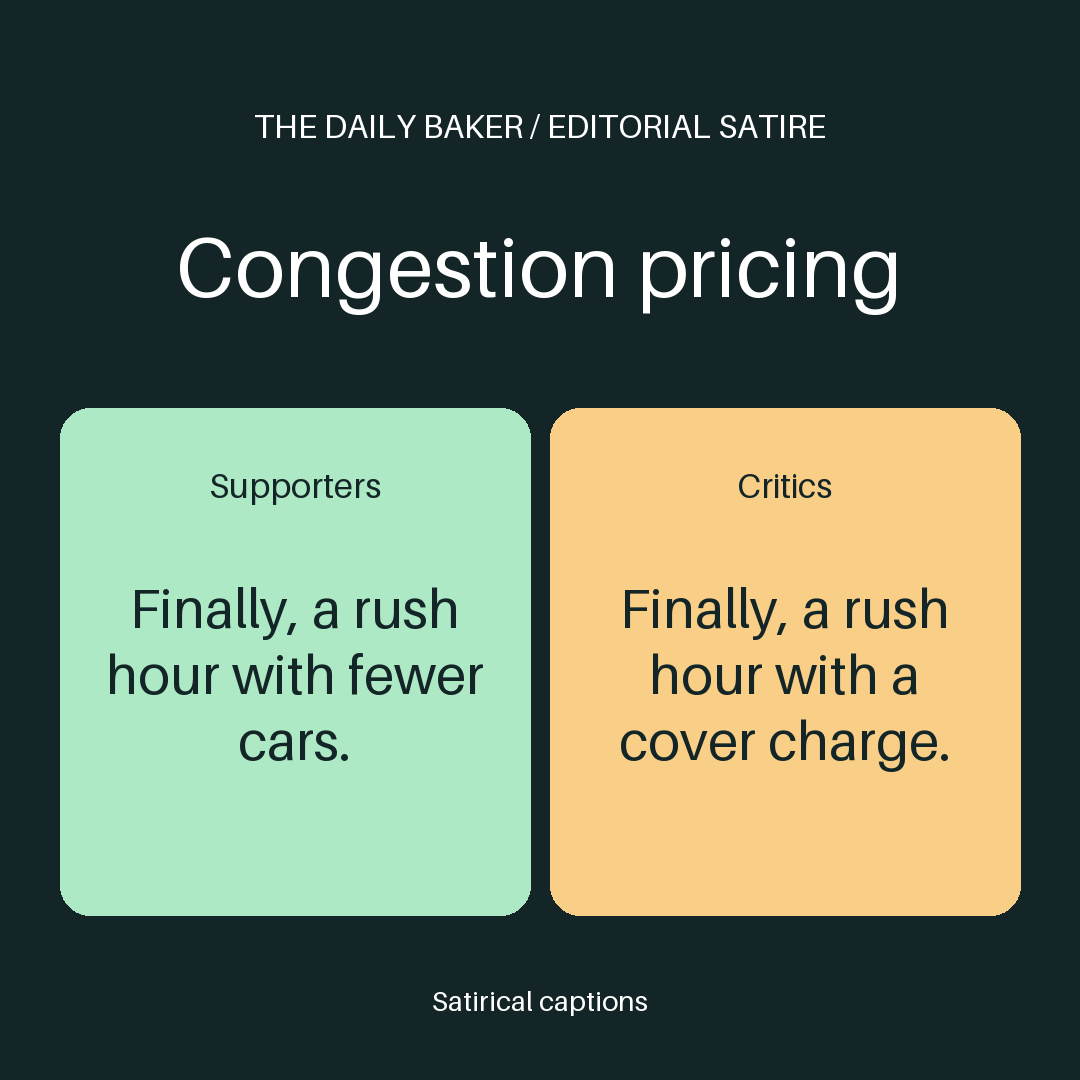
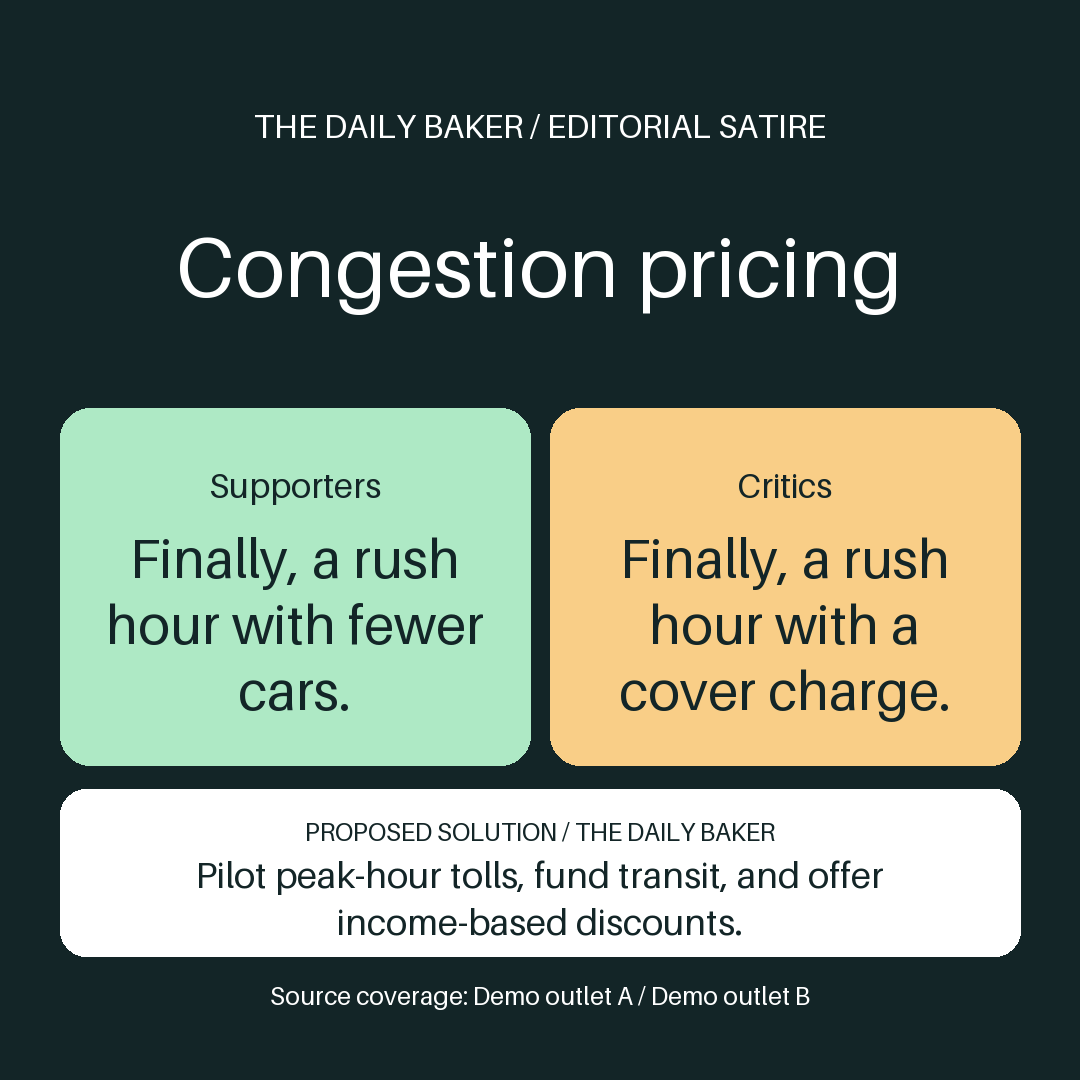
Add sourced COP31 story and proposed solutions

Changed region(s): [[0.0306, 0.4889, 0.9472, 0.8861], [0.2444, 0.9167, 0.7639, 0.9472]]

diff --git a/docs/index.html b/docs/index.html
@@ -1,4 +1,10 @@
-<!doctype html><html lang="en"><meta charset="utf-8"><meta name="viewport" content="width=device-width"><title>The Daily Baker</title><style>body{font:17px system-ui;background:#f4efe7;color:#20282a;max-width:1050px;margin:50px auto;padding:0 20px}article{display:flex;flex-wrap:wrap;gap:26px;background:white;padding:22px;margin:22px 0;border-radius:16px}article div{flex:1;min-width:240px}img{width:min(100%,360px);align-self:start;border-radius:9px}p{line-height:1.45}</style><h1>The Daily Baker</h1><p>Synthetic demo. Try approving or rejecting each draft. Decisions stay in this browser tab and reset on refresh.</p><article><img src="7d58a8b4afb002ae.png" alt="Two panels on Congestion pricing. Supporters: I&#x27;d pay for a shorter commute. Critics: I already paid for the commute."><div><h2>Congestion pricing</h2><code>7d58a8b4afb002ae</code> · <span class="decision" aria-live="polite">Pending</span> <button type="button">Approve</button> <button type="button">Reject</button><ul><li><b>Supporters</b> · Demo outlet A · Congestion pricing cuts congestion<p>Synthetic coverage for a local demo.</p></li><li><b>Critics</b> · Demo outlet B · Congestion pricing is unfair to drivers<p>Synthetic coverage for a local demo.</p></li></ul><p>Editorial satire | Congestion pricing — Supporters and Critics.</p></div></article><article><img src="1e39490d3987ee5d.png" alt="Two panels on Congestion pricing. Supporters: The traffic jam needed an exit. Critics: My budget needed one too."><div><h2>Congestion pricing</h2><code>1e39490d3987ee5d</code> · <span class="decision" aria-live="polite">Pending</span> <button type="button">Approve</button> <button type="button">Reject</button><ul><li><b>Supporters</b> · Demo outlet A · Congestion pricing cuts congestion<p>Synthetic coverage for a local demo.</p></li><li><b>Critics</b> · Demo outlet B · Congestion pricing is unfair to drivers<p>Synthetic coverage for a local demo.</p></li></ul><p>Editorial satire | Congestion pricing — Supporters and Critics.</p></div></article><article><img src="1a60bd510941abfa.png" alt="Two panels on Congestion pricing. Supporters: Finally, a rush hour with fewer cars. Critics: Finally, a rush hour with a cover charge."><div><h2>Congestion pricing</h2><code>1a60bd510941abfa</code> · <span class="decision" aria-live="polite">Pending</span> <button type="button">Approve</button> <button type="button">Reject</button><ul><li><b>Supporters</b> · Demo outlet A · Congestion pricing cuts congestion<p>Synthetic coverage for a local demo.</p></li><li><b>Critics</b> · Demo outlet B · Congestion pricing is unfair to drivers<p>Synthetic coverage for a local demo.</p></li></ul><p>Editorial satire | Congestion pricing — Supporters and Critics.</p></div></article><script>
+<!doctype html><html lang="en"><meta charset="utf-8"><meta name="viewport" content="width=device-width"><title>The Daily Baker</title><style>body{font:17px system-ui;background:#f4efe7;color:#20282a;max-width:1050px;margin:50px auto;padding:0 20px}article{display:flex;flex-wrap:wrap;gap:26px;background:white;padding:22px;margin:22px 0;border-radius:16px}article div{flex:1;min-width:240px}img{width:min(100%,360px);align-self:start;border-radius:9px}p{line-height:1.45}</style><h1>The Daily Baker</h1><h2>Live story test · November 9, 2026</h2>
+<section style="display:flex;flex-wrap:wrap;gap:26px;background:white;padding:22px;border-radius:16px">
+<img src="cop31-2026-11-09.png" alt="COP31 satire. Supporters want an exit date. Critics worry about power bills. Proposed solution: set phase-down milestones, fund clean power, and protect households from price spikes.">
+<div><h3>COP31: The fossil fuel exit</h3><p>Editorial satire based on reporting from today. The proposed solution is from The Daily Baker.</p>
+<ul><li><a href="https://www.channelnewsasia.com/sustainability/cop31-climate-talks-un-crisis-antalya-6535811">CNA · COP31 opening coverage</a></li>
+<li><a href="https://www.euronews.com/2026/11/09/europe-talks-green-at-cop31-but-scrambles-for-more-fossil-fuels">Euronews · Europe’s energy trade-offs</a></li></ul></div></section>
+<h2>Synthetic review demo</h2><p>Synthetic demo. Try approving or rejecting each draft. Decisions stay in this browser tab and reset on refresh.</p><article><img src="7d58a8b4afb002ae.png" alt="Two panels on Congestion pricing. Supporters: I&#x27;d pay for a shorter commute. Critics: I already paid for the commute. Proposed solution from The Daily Baker: Pilot peak-hour tolls, fund transit, and offer income-based discounts."><div><h2>Congestion pricing</h2><code>7d58a8b4afb002ae</code> · <span class="decision" aria-live="polite">Pending</span> <button type="button">Approve</button> <button type="button">Reject</button><ul><li><b>Supporters</b> · Demo outlet A · Congestion pricing cuts congestion<p>Synthetic coverage for a local demo.</p></li><li><b>Critics</b> · Demo outlet B · Congestion pricing is unfair to drivers<p>Synthetic coverage for a local demo.</p></li></ul><p>Editorial satire | Congestion pricing — Supporters and Critics.</p><p><b>Proposed solution</b> · Pilot peak-hour tolls, fund transit, and offer income-based discounts.</p></div></article><article><img src="1e39490d3987ee5d.png" alt="Two panels on Congestion pricing. Supporters: The traffic jam needed an exit. Critics: My budget needed one too. Proposed solution from The Daily Baker: Pilot peak-hour tolls, fund transit, and offer income-based discounts."><div><h2>Congestion pricing</h2><code>1e39490d3987ee5d</code> · <span class="decision" aria-live="polite">Pending</span> <button type="button">Approve</button> <button type="button">Reject</button><ul><li><b>Supporters</b> · Demo outlet A · Congestion pricing cuts congestion<p>Synthetic coverage for a local demo.</p></li><li><b>Critics</b> · Demo outlet B · Congestion pricing is unfair to drivers<p>Synthetic coverage for a local demo.</p></li></ul><p>Editorial satire | Congestion pricing — Supporters and Critics.</p><p><b>Proposed solution</b> · Pilot peak-hour tolls, fund transit, and offer income-based discounts.</p></div></article><article><img src="1a60bd510941abfa.png" alt="Two panels on Congestion pricing. Supporters: Finally, a rush hour with fewer cars. Critics: Finally, a rush hour with a cover charge. Proposed solution from The Daily Baker: Pilot peak-hour tolls, fund transit, and offer income-based discounts."><div><h2>Congestion pricing</h2><code>1a60bd510941abfa</code> · <span class="decision" aria-live="polite">Pending</span> <button type="button">Approve</button> <button type="button">Reject</button><ul><li><b>Supporters</b> · Demo outlet A · Congestion pricing cuts congestion<p>Synthetic coverage for a local demo.</p></li><li><b>Critics</b> · Demo outlet B · Congestion pricing is unfair to drivers<p>Synthetic coverage for a local demo.</p></li></ul><p>Editorial satire | Congestion pricing — Supporters and Critics.</p><p><b>Proposed solution</b> · Pilot peak-hour tolls, fund transit, and offer income-based discounts.</p></div></article><script>
 for (const card of document.querySelectorAll("article")) {
   const status = card.querySelector(".decision");
   const buttons = card.querySelectorAll("button");

diff --git a/outputs/daily_baker.py b/outputs/daily_baker.py
@@ -1,5 +1,6 @@
 """The Daily Baker: collect, draft, review, and export editorial satire."""
 import argparse
+from concurrent.futures import ThreadPoolExecutor
 from datetime import date, datetime, timedelta, timezone
 from email.utils import parsedate_to_datetime
 from hashlib import sha256
@@ -9,7 +10,7 @@ import json
 from pathlib import Path
 import re
 import sqlite3
-from urllib.parse import urlsplit
+from urllib.parse import urlencode, urlsplit
 from urllib.request import Request, urlopen
 from xml.etree import ElementTree
 
@@ -34,7 +35,22 @@ class PlainText(HTMLParser):
 
 def collect(feeds):
     cutoff = datetime.now(timezone.utc) - timedelta(hours=48)
-    for feed in feeds:
+    with ThreadPoolExecutor(max_workers=8) as workers:
+        for articles in workers.map(lambda source: list(collect_source(source, cutoff)), feeds):
+            yield from articles
+
+
+def collect_source(source, cutoff):
+    # Keep existing string-based feed configurations usable.
+    if isinstance(source, str):
+        source = {"url": source, "publisher": urlsplit(source).hostname}
+    site = source.get("site")
+    direct = source.get("url")
+    fallback = "https://news.google.com/rss/search?" + urlencode({
+        "q": f"site:{site} when:2d", "hl": "en", "gl": "US", "ceid": "US:en",
+    })
+    for feed in filter(None, (direct, fallback if site else None)):
+        accepted = 0
         try:
             with urlopen(Request(feed, headers={"User-Agent": "TheDailyBaker/1.0"}), timeout=12) as response:
                 raw = response.read(2_000_001)
@@ -54,14 +70,34 @@ def collect(feeds):
                     continue
                 if not cutoff <= published <= datetime.now(timezone.utc) or not host or urlsplit(link).scheme != "https":
                     continue
+                title = str(PlainText(item.findtext("title") or ""))
+                summary = str(PlainText(item.findtext("description") or ""))
+                if feed != direct:
+                    attribution = item.find("source")
+                    if attribution is None:
+                        continue
+                    origin = urlsplit(attribution.get("url", "")).hostname or ""
+                    domain = site.split("/")[0]
+                    if origin != domain and not origin.endswith("." + domain):
+                        continue
+                    label = (attribution.text or "").strip()
+                    if label and title.endswith(f" - {label}"):
+                        title = title[:-(len(label) + 3)]
+                    summary = ""
+                if not title:
+                    continue
+                accepted += 1
                 yield {
-                    "publisher": urlsplit(feed).hostname,
+                    "publisher": source["publisher"],
+                    "channel": source.get("channel", source["publisher"]),
                     "url": link,
-                    "title": str(PlainText(item.findtext("title") or "")),
-                    "summary": str(PlainText(item.findtext("description") or "")),
+                    "title": title,
+                    "summary": summary,
                 }
         except (OSError, ValueError, ElementTree.ParseError) as error:
             print(f"Feed unavailable ({feed}): {error}")
+        if accepted:
+            return
 
 
 def select(articles, topics):
@@ -85,7 +121,7 @@ def select(articles, topics):
     return max(candidates, key=lambda candidate: candidate[0], default=None)
 
 
-def render(topic, sides, jokes, index, path):
+def render(topic, sides, jokes, index, path, sources, solution):
     palettes = [
         ("#132527", "#aee9c5", "#f9ce87"),
         ("#242238", "#c8bbff", "#ffb9ce"),
@@ -110,10 +146,15 @@ def render(topic, sides, jokes, index, path):
     centered("THE DAILY BAKER   /   EDITORIAL SATIRE", 125, 33, 970)
     centered(topic, 266, 84, 960)
     for x, color, side, joke in zip((60, 550), (left, right), sides, jokes):
-        draw.rounded_rectangle((x, 408, x + 470, 915), radius=30, fill=color)
+        draw.rounded_rectangle((x, 408, x + 470, 765), radius=30, fill=color)
         centered(side, 485, 34, 410, x + 235, background)
-        centered(joke, 674, 54, 398, x + 235, background)
-    centered("Satirical captions", 1000, 28, 970)
+        centered(joke, 624, 54, 398, x + 235, background)
+    if solution:
+        draw.rounded_rectangle((60, 789, 1020, 956), radius=26, fill="#ffffff")
+        centered("PROPOSED SOLUTION  /  THE DAILY BAKER", 831, 25, 900, color=background)
+        centered(solution, 899, 36, 880, color=background)
+    credits = "  /  ".join(source.get("channel", source["publisher"]) for source in sources)
+    centered("Source coverage: " + credits, 995, 25, 960)
     image.save(path)
 
 
@@ -135,11 +176,13 @@ def dashboard(db, state):
             title = escape(source["title"])
             if source["url"]:
                 title = f'<a href="{escape(source["url"], quote=True)}">{title}</a>'
-            sources.append(f'<li><b>{escape(label)}</b> · {escape(source["publisher"])} · {title}<p>{escape(source["summary"])}</p></li>')
+            sources.append(f'<li><b>{escape(label)}</b> · {escape(source.get("channel", source["publisher"]))} · {title}<p>{escape(source["summary"])}</p></li>')
+        solution = data.get("solution")
+        solution_html = f'<p><b>Proposed solution</b> · {escape(solution)}</p>' if solution else ""
         mode = " · demo" if data["demo"] else ""
         sections.append(f'<article><img src="{identifier}.png" alt="{escape(data["alt"], quote=True)}">'
                         f'<div><h2>{escape(data["topic"])}</h2><code>{identifier}</code> · {status}{mode}'
-                        f'<ul>{"".join(sources)}</ul><p>{escape(data["caption"])}</p></div></article>')
+                        f'<ul>{"".join(sources)}</ul><p>{escape(data["caption"])}</p>{solution_html}</div></article>')
     page = ('<!doctype html><html lang="en"><meta charset="utf-8"><meta name="viewport" content="width=device-width">'
             '<title>The Daily Baker</title><style>body{font:17px system-ui;background:#f4efe7;color:#20282a;max-width:1050px;'
             'margin:50px auto;padding:0 20px}article{display:flex;flex-wrap:wrap;gap:26px;background:white;padding:22px;'
@@ -158,15 +201,18 @@ def generate(db, state, settings, is_demo):
     _, topic, sources = result
     name = topic["name"]
     sides = [label for label, _ in topic["sides"]]
+    solution = topic.get("solution", "")
     for index, jokes in enumerate(topic["jokes"]):
-        data = {"topic": name, "sides": sides, "sources": sources, "demo": is_demo,
+        data = {"topic": name, "sides": sides, "sources": sources, "demo": is_demo, "solution": solution,
                 "caption": f"Editorial satire | {name} — {sides[0]} and {sides[1]}.",
                 "alt": f"Two panels on {name}. " + " ".join(f"{side}: {joke}" for side, joke in zip(sides, jokes))}
+        if solution:
+            data["alt"] += f" Proposed solution from The Daily Baker: {solution}"
         raw = json.dumps(data, ensure_ascii=False, sort_keys=True)
-        identifier = sha256(f"{date.today()}:{index}:{raw}".encode()).hexdigest()[:16]
+        identifier = sha256(f"{date.today()}:credits-v1:{index}:{raw}".encode()).hexdigest()[:16]
         if db.execute("SELECT 1 FROM drafts WHERE id = ?", (identifier,)).fetchone():
             continue
-        render(name, sides, jokes, index, state / f"{identifier}.png")
+        render(name, sides, jokes, index, state / f"{identifier}.png", sources, solution)
         db.execute("INSERT INTO drafts VALUES (?, 'pending', ?)", (identifier, raw))
         print(f"Pending: {identifier}")
 
@@ -201,11 +247,21 @@ def main():
                 parser.exit(1, "Select an approved draft to export.\n")
             if json.loads(row[0])["demo"]:
                 parser.exit(1, "Demo drafts are for review only.\n")
+            data = json.loads(row[0])
+            citations = [
+                f'{source.get("channel", source["publisher"])} — {source["title"]}\n{source["url"]}'
+                for source in data["sources"]
+            ]
+            post_copy = data["caption"]
+            if data.get("solution"):
+                post_copy += f'\n\nProposed solution from The Daily Baker\n{data["solution"]}'
+            post_copy += "\n\nSource coverage\n" + "\n\n".join(citations) + "\n"
             import zipfile
             target = ROOT / f"post-{args.id}.zip"
             with zipfile.ZipFile(target, "w", compression=zipfile.ZIP_DEFLATED) as archive:
                 archive.write(state / f"{args.id}.png", "meme.png")
                 archive.writestr("post.json", row[0])
+                archive.writestr("caption.txt", post_copy)
             print(target)
         dashboard(db, state)
     print(state / "review.html")

diff --git a/outputs/README.md b/outputs/README.md
@@ -9,7 +9,7 @@ Invoke-Item work/daily-baker/review.html
 python outputs/daily_baker.py generate
 ```
 
-Live generation checks configured RSS feeds for items published in the last 48 hours. It looks for evidence of opposite positions from separate feed hosts and ranks matching topics by publisher coverage. It skips a run if no pair qualifies. The initial topic rules and three pairs of prewritten jokes per topic live in `settings.json`. This approach is deliberately narrow. Review each link for context, attribution and syndication before approval.
+Live generation checks configured RSS feeds for items published in the last 48 hours. It looks for evidence of opposite positions from distinct configured publisher groups and ranks matching topics by publisher coverage. It skips a run if no pair qualifies. The initial topic rules and three pairs of prewritten jokes per topic live in `settings.json`. This approach is deliberately narrow. Review each link for context, attribution and syndication before approval.
 
 Copy a draft ID from the review page. Run one of the following commands to record a decision, then refresh the page.
 
@@ -19,6 +19,9 @@ python outputs/daily_baker.py reject DRAFT_ID
 python outputs/daily_baker.py export DRAFT_ID
 ```
 
-Export creates a ZIP in `outputs` with the PNG and a JSON record containing the caption, alt text, and source links. Export requires an approved live draft. Synthetic demo drafts can be reviewed and stay local.
+Export creates a ZIP in `outputs` with the PNG, a copy-ready caption.txt with article citations, and a JSON record containing the caption, alt text, and source links. New images name both outlets in the footer. Export requires an approved live draft. Synthetic demo drafts can be reviewed and stay local.
 
 For daily collection, create a daily Windows Task Scheduler task. Use the full path to the Python executable that has Pillow installed as the program and pass the quoted full path to `outputs\daily_baker.py` followed by `generate` as its arguments. Set the trigger to the local time you want. The task refreshes the review queue in `work\daily-baker`. It requires network access to your chosen RSS feeds.
+
+
+The source roster uses the requested channels, excluding Al Jazeera. Entries without a usable direct RSS feed use a domain-scoped Google News RSS query. This follows indexed web coverage, which can differ from the individual TV broadcast. Related channels share a publisher group. Headlines obtained through Google News link through Google News and are matched on headline text alone.
